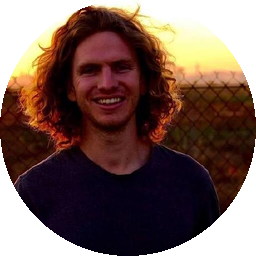
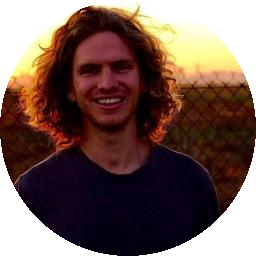
docs: add Specstreamai to the contributor wall
Recognize the SpecStream search contribution (#277) until the GitHub
contributors API lists the login, and refresh the wall order.

diff --git a/scripts/update_contributors.py b/scripts/update_contributors.py
@@ -83,12 +83,15 @@ EXCLUDE = {"github-actions[bot]", "dependabot[bot]", "actions-user"}
 # repeated-action continuation failures in #174, addressed by #175.
 # `georgeatparallel` contributed the opt-in keyless Parallel search engine in
 # #254; the entry drops out on its own once the API lists the login.
+# `Specstreamai` contributed the opt-in keyed SpecStream search engine in #277;
+# the entry drops out on its own once the API lists the login.
 RECOGNIZED_CONTRIBUTORS = (
     "EQSTLab",
     "difficulttopickaname",
     "ChampionZhong",
     "Pandasama2025",
     "georgeatparallel",
+    "Specstreamai",
 )
 _UA = {"User-Agent": "openai4s-contributors-script"}
 

diff --git a/tests/test_update_contributors.py b/tests/test_update_contributors.py
@@ -22,6 +22,7 @@ def test_public_recognition_is_appended_after_commit_contributors():
         "ChampionZhong",
         "Pandasama2025",
         "georgeatparallel",
+        "Specstreamai",
     ]
 
 
@@ -42,6 +43,7 @@ def test_a_recognized_login_the_api_already_lists_is_not_duplicated():
         "ChampionZhong",
         "Pandasama2025",
         "georgeatparallel",
+        "Specstreamai",
     ]
 
 

diff --git a/README.md b/README.md
@@ -448,15 +448,16 @@ Released under the **MIT License** — see [`LICENSE`](LICENSE).
 
 <!-- CONTRIBUTORS:START -->
 <a href="https://github.com/Nobody-Zhang" title="Nobody-Zhang"><img src=".github/contributors/Nobody-Zhang.png" width="64" height="64" alt="Nobody-Zhang" /></a>
+<a href="https://github.com/Linmj-Judy" title="Linmj-Judy"><img src=".github/contributors/Linmj-Judy.png" width="64" height="64" alt="Linmj-Judy" /></a>
 <a href="https://github.com/wangyu-sd" title="wangyu-sd"><img src=".github/contributors/wangyu-sd.png" width="64" height="64" alt="wangyu-sd" /></a>
 <a href="https://github.com/dvd233" title="dvd233"><img src=".github/contributors/dvd233.png" width="64" height="64" alt="dvd233" /></a>
 <a href="https://github.com/HowardLi1984" title="HowardLi1984"><img src=".github/contributors/HowardLi1984.png" width="64" height="64" alt="HowardLi1984" /></a>
-<a href="https://github.com/Linmj-Judy" title="Linmj-Judy"><img src=".github/contributors/Linmj-Judy.png" width="64" height="64" alt="Linmj-Judy" /></a>
 <a href="https://github.com/cursoragent" title="cursoragent"><img src=".github/contributors/cursoragent.png" width="64" height="64" alt="cursoragent" /></a>
 <a href="https://github.com/YuyangSunshine" title="YuyangSunshine"><img src=".github/contributors/YuyangSunshine.png" width="64" height="64" alt="YuyangSunshine" /></a>
-<a href="https://github.com/Grace-xyx" title="Grace-xyx"><img src=".github/contributors/Grace-xyx.png" width="64" height="64" alt="Grace-xyx" /></a>
 <a href="https://github.com/difficulttopickaname" title="difficulttopickaname"><img src=".github/contributors/difficulttopickaname.png" width="64" height="64" alt="difficulttopickaname" /></a>
+<a href="https://github.com/Grace-xyx" title="Grace-xyx"><img src=".github/contributors/Grace-xyx.png" width="64" height="64" alt="Grace-xyx" /></a>
 <a href="https://github.com/Weifeng2Wu" title="Weifeng2Wu"><img src=".github/contributors/Weifeng2Wu.png" width="64" height="64" alt="Weifeng2Wu" /></a>
+<a href="https://github.com/georgeatparallel" title="georgeatparallel"><img src=".github/contributors/georgeatparallel.png" width="64" height="64" alt="georgeatparallel" /></a>
 <a href="https://github.com/Lyu6PosHao" title="Lyu6PosHao"><img src=".github/contributors/Lyu6PosHao.png" width="64" height="64" alt="Lyu6PosHao" /></a>
 <a href="https://github.com/JunkaiWang-TheoPhy" title="JunkaiWang-TheoPhy"><img src=".github/contributors/JunkaiWang-TheoPhy.png" width="64" height="64" alt="JunkaiWang-TheoPhy" /></a>
 <a href="https://github.com/CyrusAuyeung" title="CyrusAuyeung"><img src=".github/contributors/CyrusAuyeung.png" width="64" height="64" alt="CyrusAuyeung" /></a>
@@ -472,7 +473,7 @@ Released under the **MIT License** — see [`LICENSE`](LICENSE).
 <a href="https://github.com/stau-7001" title="stau-7001"><img src=".github/contributors/stau-7001.png" width="64" height="64" alt="stau-7001" /></a>
 <a href="https://github.com/EQSTLab" title="EQSTLab"><img src=".github/contributors/EQSTLab.png" width="64" height="64" alt="EQSTLab" /></a>
 <a href="https://github.com/Pandasama2025" title="Pandasama2025"><img src=".github/contributors/Pandasama2025.png" width="64" height="64" alt="Pandasama2025" /></a>
-<a href="https://github.com/georgeatparallel" title="georgeatparallel"><img src=".github/contributors/georgeatparallel.png" width="64" height="64" alt="georgeatparallel" /></a>
+<a href="https://github.com/Specstreamai" title="Specstreamai"><img src=".github/contributors/Specstreamai.png" width="64" height="64" alt="Specstreamai" /></a>
 <!-- CONTRIBUTORS:END -->
 
 <sub>Auto-generated daily from the GitHub <a href="https://github.com/PKU-YuanGroup/OpenAI4S/graphs/contributors">contributors graph</a> and a maintained public-recognition list by <code>scripts/update_contributors.py</code>.</sub>

diff --git a/README_zh.md b/README_zh.md
@@ -415,15 +415,16 @@ uv run pre-commit run --all-files   # 全量格式化 + lint
 
 <!-- CONTRIBUTORS:START -->
 <a href="https://github.com/Nobody-Zhang" title="Nobody-Zhang"><img src=".github/contributors/Nobody-Zhang.png" width="64" height="64" alt="Nobody-Zhang" /></a>
+<a href="https://github.com/Linmj-Judy" title="Linmj-Judy"><img src=".github/contributors/Linmj-Judy.png" width="64" height="64" alt="Linmj-Judy" /></a>
 <a href="https://github.com/wangyu-sd" title="wangyu-sd"><img src=".github/contributors/wangyu-sd.png" width="64" height="64" alt="wangyu-sd" /></a>
 <a href="https://github.com/dvd233" title="dvd233"><img src=".github/contributors/dvd233.png" width="64" height="64" alt="dvd233" /></a>
 <a href="https://github.com/HowardLi1984" title="HowardLi1984"><img src=".github/contributors/HowardLi1984.png" width="64" height="64" alt="HowardLi1984" /></a>
-<a href="https://github.com/Linmj-Judy" title="Linmj-Judy"><img src=".github/contributors/Linmj-Judy.png" width="64" height="64" alt="Linmj-Judy" /></a>
 <a href="https://github.com/cursoragent" title="cursoragent"><img src=".github/contributors/cursoragent.png" width="64" height="64" alt="cursoragent" /></a>
 <a href="https://github.com/YuyangSunshine" title="YuyangSunshine"><img src=".github/contributors/YuyangSunshine.png" width="64" height="64" alt="YuyangSunshine" /></a>
-<a href="https://github.com/Grace-xyx" title="Grace-xyx"><img src=".github/contributors/Grace-xyx.png" width="64" height="64" alt="Grace-xyx" /></a>
 <a href="https://github.com/difficulttopickaname" title="difficulttopickaname"><img src=".github/contributors/difficulttopickaname.png" width="64" height="64" alt="difficulttopickaname" /></a>
+<a href="https://github.com/Grace-xyx" title="Grace-xyx"><img src=".github/contributors/Grace-xyx.png" width="64" height="64" alt="Grace-xyx" /></a>
 <a href="https://github.com/Weifeng2Wu" title="Weifeng2Wu"><img src=".github/contributors/Weifeng2Wu.png" width="64" height="64" alt="Weifeng2Wu" /></a>
+<a href="https://github.com/georgeatparallel" title="georgeatparallel"><img src=".github/contributors/georgeatparallel.png" width="64" height="64" alt="georgeatparallel" /></a>
 <a href="https://github.com/Lyu6PosHao" title="Lyu6PosHao"><img src=".github/contributors/Lyu6PosHao.png" width="64" height="64" alt="Lyu6PosHao" /></a>
 <a href="https://github.com/JunkaiWang-TheoPhy" title="JunkaiWang-TheoPhy"><img src=".github/contributors/JunkaiWang-TheoPhy.png" width="64" height="64" alt="JunkaiWang-TheoPhy" /></a>
 <a href="https://github.com/CyrusAuyeung" title="CyrusAuyeung"><img src=".github/contributors/CyrusAuyeung.png" width="64" height="64" alt="CyrusAuyeung" /></a>
@@ -439,7 +440,7 @@ uv run pre-commit run --all-files   # 全量格式化 + lint
 <a href="https://github.com/stau-7001" title="stau-7001"><img src=".github/contributors/stau-7001.png" width="64" height="64" alt="stau-7001" /></a>
 <a href="https://github.com/EQSTLab" title="EQSTLab"><img src=".github/contributors/EQSTLab.png" width="64" height="64" alt="EQSTLab" /></a>
 <a href="https://github.com/Pandasama2025" title="Pandasama2025"><img src=".github/contributors/Pandasama2025.png" width="64" height="64" alt="Pandasama2025" /></a>
-<a href="https://github.com/georgeatparallel" title="georgeatparallel"><img src=".github/contributors/georgeatparallel.png" width="64" height="64" alt="georgeatparallel" /></a>
+<a href="https://github.com/Specstreamai" title="Specstreamai"><img src=".github/contributors/Specstreamai.png" width="64" height="64" alt="Specstreamai" /></a>
 <!-- CONTRIBUTORS:END -->
 
 <sub>由 <code>scripts/update_contributors.py</code> 每日根据 GitHub <a href="https://github.com/PKU-YuanGroup/OpenAI4S/graphs/contributors">贡献者图谱</a>与维护中的公开署名名单自动生成。</sub>

diff --git a/.github/contributors/README.md b/.github/contributors/README.md
@@ -33,6 +33,7 @@ each replacement is atomic, but the batch is not an all-or-nothing transaction.
 | `Lyu6PosHao.png` | Render-ready avatar for contributor `Lyu6PosHao`. |
 | `Nobody-Zhang.png` | Render-ready avatar for contributor `Nobody-Zhang`. |
 | `Pandasama2025.png` | Render-ready avatar for contributor `Pandasama2025`. |
+| `Specstreamai.png` | Render-ready avatar for contributor `Specstreamai`. |
 | `Weifeng2Wu.png` | Render-ready avatar for contributor `Weifeng2Wu`. |
 | `WenyuLiang.png` | Render-ready avatar for contributor `WenyuLiang`. |
 | `YuyangSunshine.png` | Render-ready avatar for contributor `YuyangSunshine`. |
